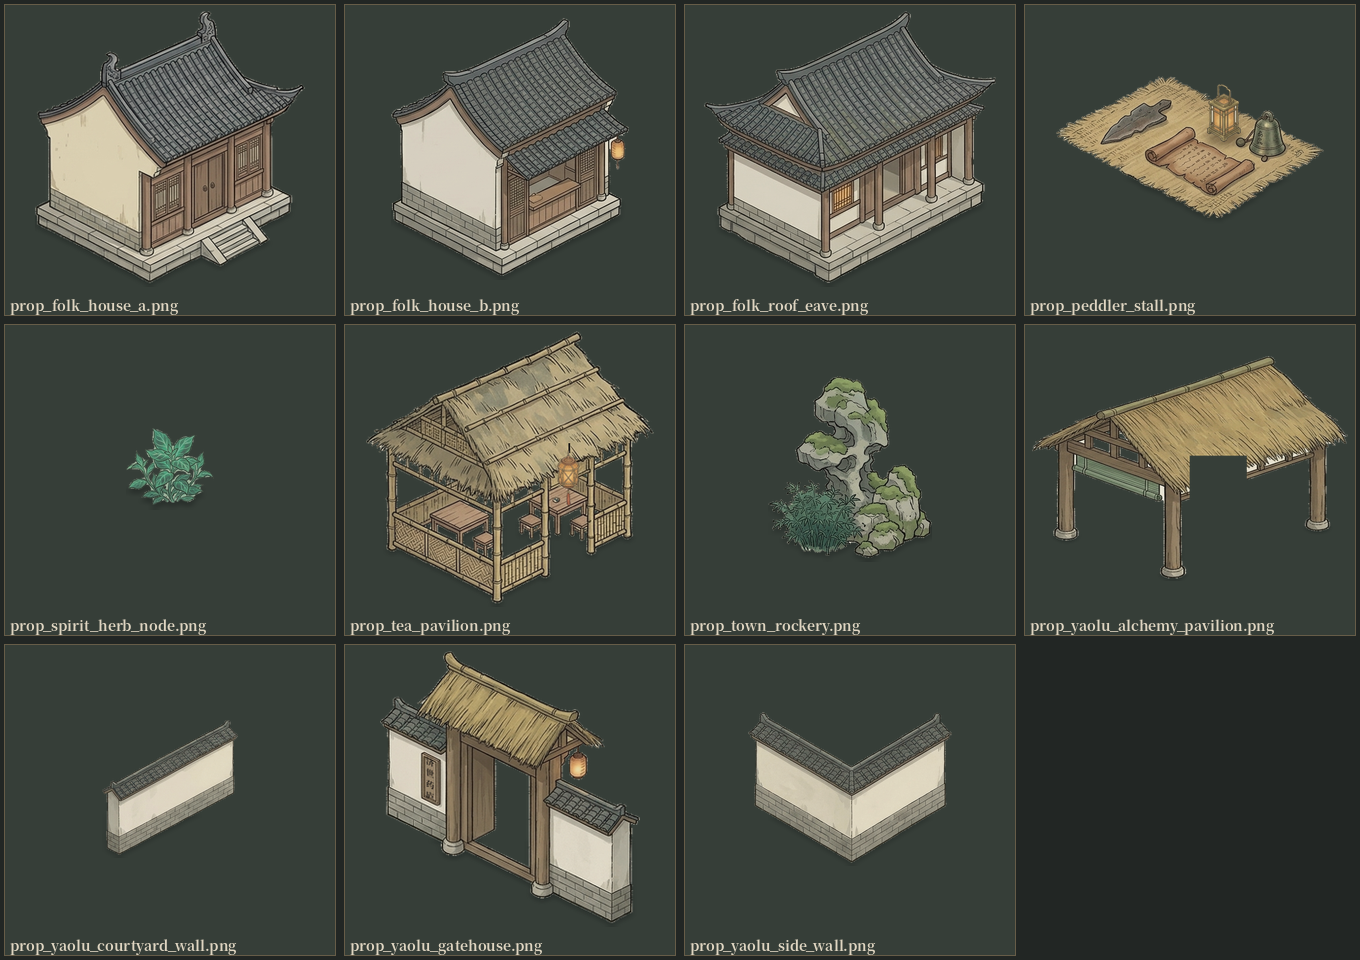
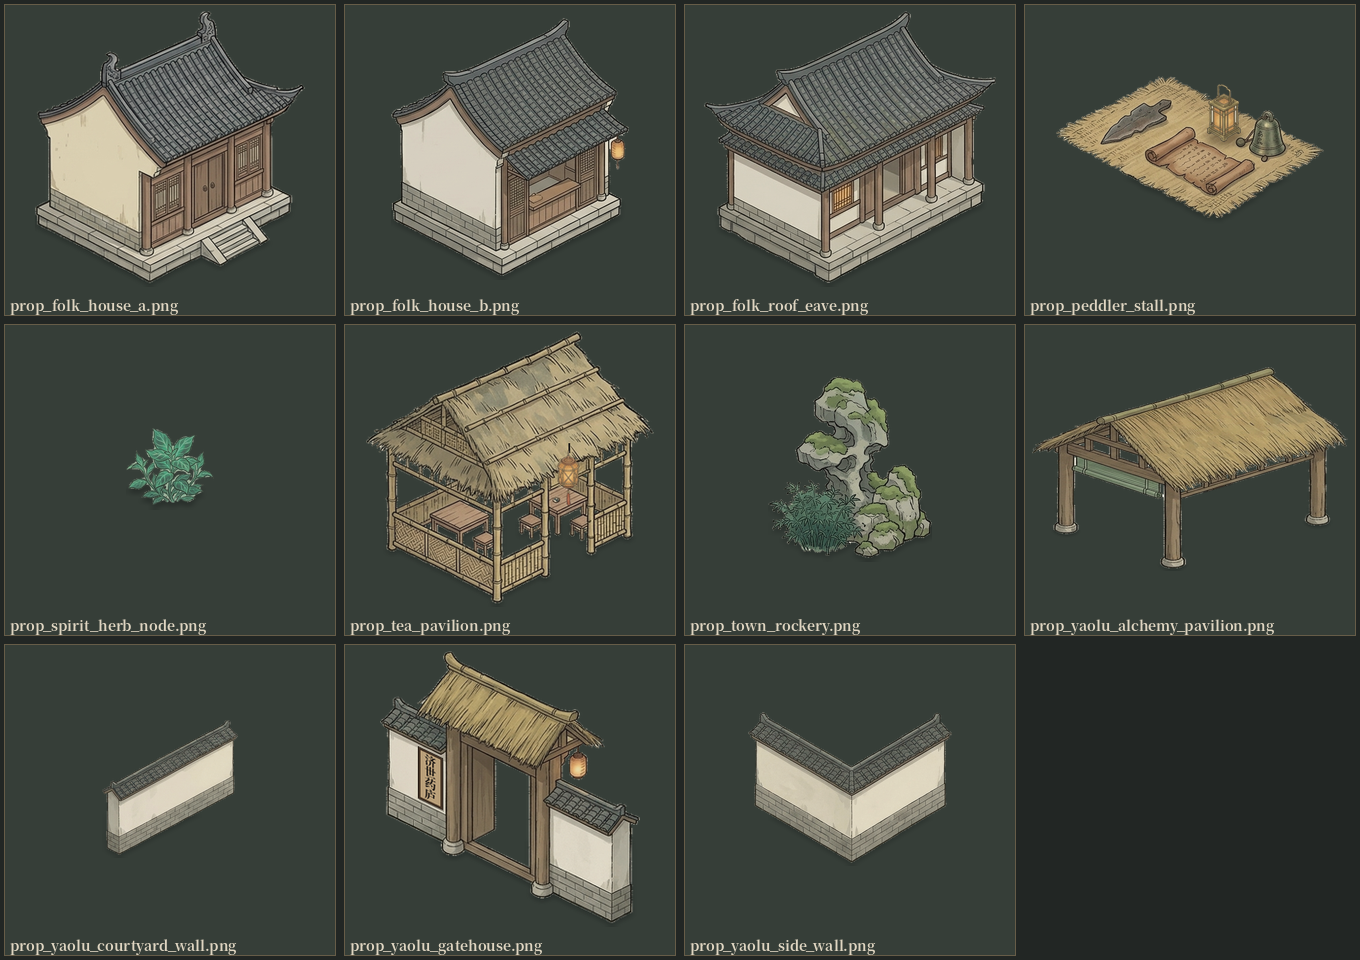
polish(town-r5): fix Round-2 audit findings (pavilion eave, unoccluded shen_npc, crisp plaque & ultrawide road bleed)

diff --git a/tools/build_polish_r5_town.py b/tools/build_polish_r5_town.py
@@ -147,19 +147,35 @@ def save_grounded_rgba(
     return final_arr
 
 
-def build_isometric_plaque_text_only(chars: str, w_px: int, h_px: int, shear_y_per_x: float = 0.48) -> Image.Image:
+def build_isometric_carved_plaque(
+    chars: str, w_px: int = 26, vert_h: int = 51, shear_y_per_x: float = 0.48
+) -> Image.Image:
     """
-    Render crisp canonical Simplified Chinese '济世药庐' calligraphy at 2x supersampling
-    sheared by +0.48 so it fits right inside the hand-drawn wooden signboard frame!
+    Render a crisp Song-Ming carved wooden signboard with canonical Simplified Chinese
+    '济世药庐' calligraphy at 4x supersampling, sheared by +0.48 and composited directly
+    at final 268x284 gatehouse resolution so zero building-downscale blur softens the glyphs!
     """
-    S = 2
-    bw, bh = w_px * S, h_px * S
-    card = Image.new("RGBA", (bw, bh), (0, 0, 0, 0))
+    S = 4
+    bw, bh = w_px * S, vert_h * S
+    pad = 2 * S
+    card = Image.new("RGBA", (bw + pad, bh + pad), (0, 0, 0, 0))
     d = ImageDraw.Draw(card)
 
+    # Subtle contact drop shadow on whitewash plaster
+    d.rectangle([S, int(1.5 * S), bw + S - 1, bh + int(1.5 * S) - 1], fill=(38, 34, 28, 72))
+    # Outer dark ink & aged walnut bevel frame
+    d.rectangle([0, 0, bw - 1, bh - 1], fill=(64, 48, 34, 255), outline=(26, 21, 18, 255), width=max(2, S // 2))
+    in_b = int(round(2.4 * S))
+    d.rectangle(
+        [in_b, in_b, bw - 1 - in_b, bh - 1 - in_b],
+        fill=(186, 160, 122, 255),
+        outline=(92, 70, 48, 255),
+        width=max(1, S // 3),
+    )
+
     if os.path.isfile(FONT_BOLD_PATH):
-        font = ImageFont.truetype(FONT_BOLD_PATH, int(bw * 0.62))
-        pad_v = int(bh * 0.08)
+        font = ImageFont.truetype(FONT_BOLD_PATH, int(round((bw - 2 * in_b) * 0.56)))
+        pad_v = in_b + S
         usable_h = bh - 2 * pad_v
         step_y = usable_h / float(len(chars))
         cx = bw * 0.5
@@ -170,17 +186,21 @@ def build_isometric_plaque_text_only(chars: str, w_px: int, h_px: int, shear_y_p
             cy = pad_v + (idx + 0.5) * step_y
             tx = int(round(cx - gw * 0.5 - bb[0]))
             ty = int(round(cy - gh * 0.5 - bb[1]))
-            d.text((tx, ty), ch, font=font, fill=(26, 21, 18, 250))
+            # Faint warm bevel highlight + bold pine-soot ink stroke
+            d.text((tx, ty + max(1, S // 4)), ch, font=font, fill=(208, 184, 146, 140))
+            d.text((tx, ty), ch, font=font, fill=(20, 16, 14, 255))
 
-    extra_h = int(math.ceil(abs(shear_y_per_x) * bw)) + 4
+    tot_w = bw + pad
+    tot_h = bh + pad
+    extra_h = int(math.ceil(abs(shear_y_per_x) * tot_w)) + 4
     src_arr = np.asarray(card, dtype=np.uint8)
-    sh_arr = np.zeros((bh + extra_h, bw, 4), dtype=np.uint8)
-    for x in range(bw):
-        dy = int(round(shear_y_per_x * x)) if shear_y_per_x >= 0 else int(round(abs(shear_y_per_x) * (bw - 1 - x)))
-        sh_arr[dy : dy + bh, x, :] = src_arr[:, x, :]
+    sh_arr = np.zeros((tot_h + extra_h, tot_w, 4), dtype=np.uint8)
+    for x in range(tot_w):
+        dy = int(round(shear_y_per_x * x)) if shear_y_per_x >= 0 else int(round(abs(shear_y_per_x) * (tot_w - 1 - x)))
+        sh_arr[dy : dy + tot_h, x, :] = src_arr[:, x, :]
 
-    out_w = w_px
-    out_h = max(12, int(round((bh + extra_h) / float(S))))
+    out_w = max(8, int(round(tot_w / float(S))))
+    out_h = max(12, int(round((tot_h + extra_h) / float(S))))
     return Image.fromarray(sh_arr, mode="RGBA").resize((out_w, out_h), Image.Resampling.LANCZOS)
 
 
@@ -284,13 +304,17 @@ def main() -> None:
         extra_hole_boxes=[(175, 180, 286, 382), (80, 110, 185, 225)],
     )
     # Mirror horizontally so gatehouse runs along +0.50 SW courtyard wall facing street (matching master_a!)
-    # Native wooden signboard frame in gate_cut (425x455) was at x=306..348, y=184..298 -> after mirror: x=77..119, y=184..298!
     gate_sw = ImageOps.mirror(gate_cut)
-    plaque_txt = build_isometric_plaque_text_only("济世药庐", w_px=22, h_px=90, shear_y_per_x=0.46)
-    gate_sw.alpha_composite(plaque_txt, (71, 164))
-
     gate_rel = "project/assets/world/prop_yaolu_gatehouse.png"
     gate_arr = save_grounded_rgba(gate_sw, 268, 284, gate_rel, shadow_alpha=76, pad_bot=4, lut_sat=0.92)
+    # Composite 4x-supersampled carved wooden '济世药庐' signboard directly at final 268x284 resolution
+    # (x=39..65, y_left=100..151) covering the native frame cleanly inside the SW whitewash panel!
+    gate_im = Image.fromarray(gate_arr, mode="RGBA")
+    plaque_card = build_isometric_carved_plaque("济世药庐", w_px=26, vert_h=54, shear_y_per_x=0.48)
+    gate_im.alpha_composite(plaque_card, (39, 98))
+    gate_arr = clamp_song_ming_mineral_hsv(np.asarray(gate_im, dtype=np.uint8))
+    assert count_fluorescent_pixels(gate_arr) == 0, "Fluorescent pixels in prop_yaolu_gatehouse.png"
+    Image.fromarray(gate_arr, mode="RGBA").save(os.path.join(REPO_ROOT, gate_rel), format="PNG", optimize=False)
     generated_thumbs[gate_rel] = gate_arr
     manifest_updates.append(
         {
@@ -302,19 +326,30 @@ def main() -> None:
         }
     )
 
-    # Alchemy Pavilion: punch out gable truss openings & tuck tiny rear shadow stub so the 207px front-SE bay frames cauldron cleanly
+    # Alchemy Pavilion: clear ALL enclosed cream openings (gable truss + straw-to-beam gaps) and
+    # surgically tuck ONLY the rear pillar stub strictly below the diagonal wooden tie-beam (zero eave notch!)
+    pav_sub = im_gp[115:596, 515:990]
     pav_cut = extract_exterior_cutout(
-        im_gp[115:596, 515:990],
+        pav_sub,
         bg_gp,
-        tol=19.5,
-        extra_hole_boxes=[(85, 165, 175, 240)],
+        tol=21.5,
+        extra_hole_boxes=[(0, 0, pav_sub.shape[1], pav_sub.shape[0])],
     )
     pav_np = np.asarray(pav_cut, dtype=np.uint8).copy()
     ph_c, pw_c = pav_np.shape[:2]
-    pav_np[int(ph_c * 0.45) : int(ph_c * 0.68), int(pw_c * 0.50) : int(pw_c * 0.68), 3] = 0
+    for x_p in range(232, min(pw_c, 314)):
+        y_beam_bot = 307.0 - 0.484 * float(x_p - 223)
+        y_edge = int(round(y_beam_bot))
+        # Clear ONLY pixels strictly below the continuous diagonal wooden tie-beam
+        if y_edge + 2 < ph_c:
+            pav_np[y_edge + 2 : min(ph_c, 316), x_p, 3] = 0
+        # Restore continuous Song-Ming ink bottom contour across the 43px span where the stub crossed the beam
+        if 252 <= x_p <= 295 and 0 <= y_edge + 1 < ph_c:
+            pav_np[y_edge, x_p] = np.array([34, 30, 26, 250], dtype=np.uint8)
+            pav_np[y_edge + 1, x_p] = np.array([34, 30, 26, 108], dtype=np.uint8)
     pav_rel = "project/assets/world/prop_yaolu_alchemy_pavilion.png"
     pav_arr = save_grounded_rgba(
-        Image.fromarray(pav_np, mode="RGBA"), 512, 364, pav_rel, shadow_alpha=68, pad_bot=4, lut_sat=0.92
+        Image.fromarray(pav_np, mode="RGBA"), 504, 326, pav_rel, shadow_alpha=68, pad_bot=4, lut_sat=0.92
     )
     generated_thumbs[pav_rel] = pav_arr
     manifest_updates.append(
